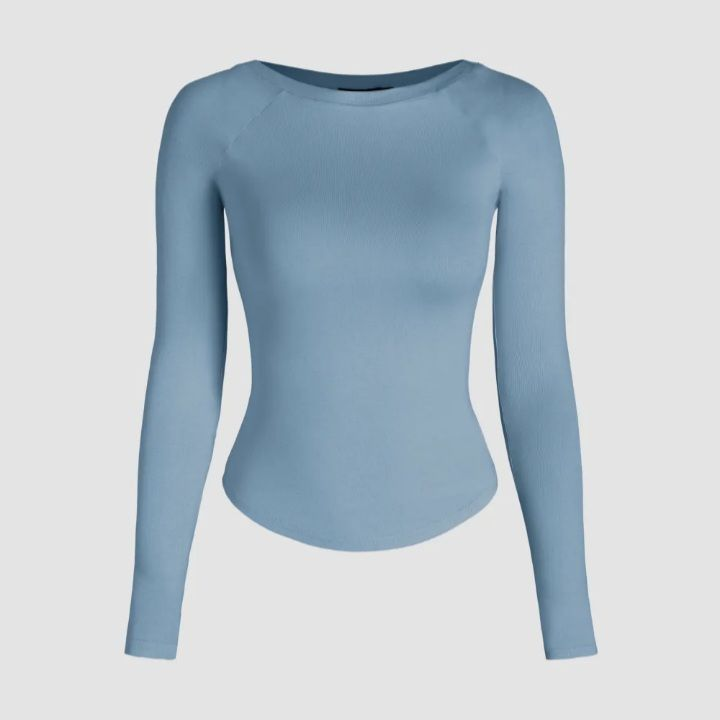
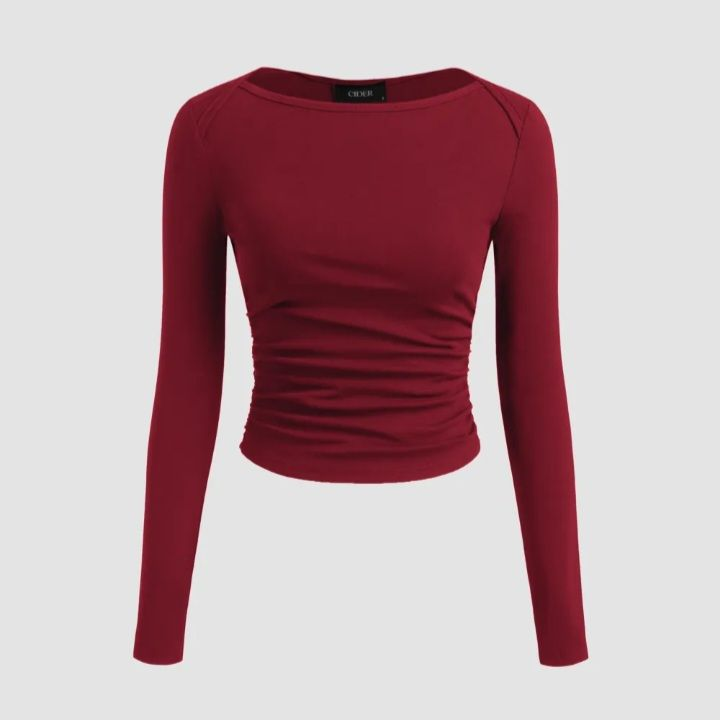
update virtualtryon

diff --git a/frontend/src/pages/TryOnUI.jsx b/frontend/src/pages/TryOnUI.jsx
@@ -152,11 +152,8 @@ const TryOnUI = () => {
     { id: 1, image: "/models/model1.jpg" },
     { id: 2, image: "/models/model2.jpg" },
     { id: 3, image: "/models/model3.jpg" },
-    { id: 4, image: "/models/model4.jpg" },
-    { id: 5, image: "/models/model5.jpg" },
-    { id: 6, image: "/models/model6.jpg" },
-    { id: 7, image: "/models/model7.jpg" },
-    { id: 8, image: "/models/model8.jpg" },
+    
+    
   ];
 
   // Example outfits data matched to a 2-row layout structure
@@ -164,11 +161,8 @@ const TryOnUI = () => {
     { id: 1, image: "/clothes/dress1.jpg", name: "dress1" },
     { id: 2, image: "/clothes/dress2.jpg", name: "dress2" },
     { id: 3, image: "/clothes/dress3.jpg", name: "dress3" },
-    { id: 4, image: "/clothes/dress4.jpg", name: "dress4" },
-    { id: 5, image: "/clothes/dress5.jpg", name: "dress5" },
-    { id: 6, image: "/clothes/dress6.jpg", name: "dress6" },
-    { id: 7, image: "/clothes/dress7.jpg", name: "dress7" },
-    { id: 8, image: "/clothes/dress8.jpg", name: "dress8" },
+    
+    
   ];
 
   const handleUploadClick = () => {